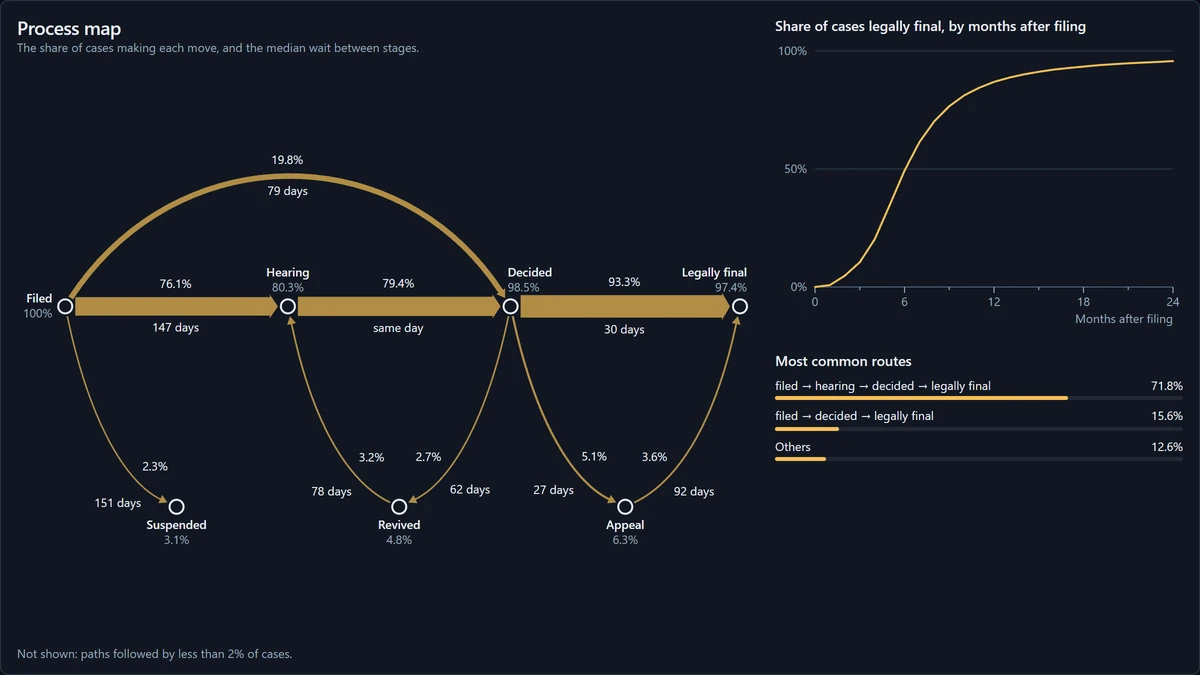
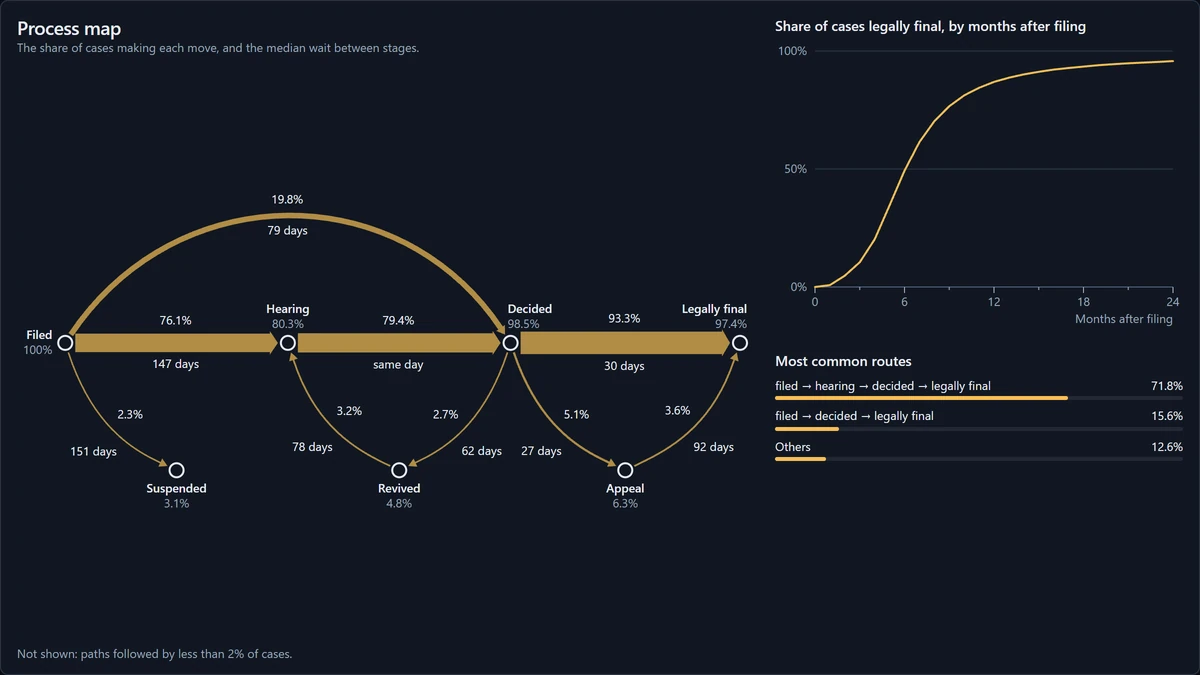
Process map: the arcs as far above the row as below it (v0.13.1)
One distance now sizes both the arc over the hearing and the arcs below:
the arc over the hearing's old rule, so it keeps its height and the arcs
below are shallower. The arrow's middle makes up for its ends being cut
back at its stages. The stills are reshot.

Changed region(s): [[0.0, 0.2178, 0.6475, 0.8089], [0.3083, 0.28, 0.3392, 0.3111]]

diff --git a/demo/src/views/map.js b/demo/src/views/map.js
@@ -131,10 +131,10 @@ export function createMap(host, data) {
     const stroke = (share) => 1 + (widest - 1) * share;
     const overWidth = stroke(drawn.find((move) => shape(move.from, move.to) === 'over')?.share ?? 0);
 
-    // The rows. The arc over the hearing rises about a fifth of its span, up to 1.3 times that, and the
-    // arcs below dip half of theirs, up to 1.8 times that, as far as the height allows, and the drawing
-    // is centred in it; on a narrow map, up to 2 and 3 times, to make room for the labels. The arc over
-    // the hearing always clears the hearing's label, and the arcs below leave room for theirs.
+    // The rows. The arcs below dip as far under the top row as the arc over the hearing rises above it:
+    // about a fifth of its span, up to 1.3 times that, as far as the height allows, and the drawing is
+    // centred in it; on a narrow map, up to twice that, to make room for the labels. The arc over the
+    // hearing always clears the hearing's label, and the arcs below leave room for theirs.
     const pad = {
       left: Math.max(measure('Filed', true), measure(shareText('filed') ?? '')) + NODE + 12,
       right: NODE + 4,
@@ -143,12 +143,10 @@ export function createMap(host, data) {
     };
     const inner = width - pad.left - pad.right;
     const room = height - pad.top - pad.bottom;
-    const least = { lift: NODE + 2 * LINE + 12 + overWidth / 2, depth: 2 * NODE + 2 * LINE + 4 };
-    const want = { lift: 0.22 * (PLACES.decided[0] - PLACES.filed[0]) * inner, depth: 0.5 * (PLACES.decided[0] - PLACES.hearing[0]) * inner };
-    const most = inner < 400 ? { lift: 2, depth: 3 } : { lift: 1.3, depth: 1.8 };
-    const lift = Math.max(least.lift, want.lift * Math.min(most.lift, room / (want.lift + want.depth)));
-    const depth = Math.max(least.depth, Math.min(want.depth * most.depth, room - lift));
-    const top = pad.top + Math.max(0, (room - lift - depth) / 2) + lift;
+    const least = Math.max(NODE + 2 * LINE + 12 + overWidth / 2, 2 * NODE + 2 * LINE + 4);
+    const want = 0.22 * (PLACES.decided[0] - PLACES.filed[0]) * inner;
+    const depth = Math.max(least, want * Math.min(inner < 400 ? 2 : 1.3, room / (2 * want)));
+    const top = pad.top + Math.max(0, room / 2 - depth) + depth;
     const at = (stage) => [pad.left + PLACES[stage][0] * inner, top + PLACES[stage][1] * depth];
 
     // What labels must keep clear of: the stages and their labels, the arrows, and the other labels.
@@ -189,7 +187,7 @@ export function createMap(host, data) {
     const arrows = drawn.map((move, id) => {
       const w = stroke(move.share);
       const twin = drawn.findIndex((other) => other.from === move.to && other.to === move.from);
-      const points = route(move.from, move.to, at, { lift });
+      const points = route(move.from, move.to, at);
       return { id, move, w, twin: twin < 0 ? null : twin, geometry: arrow(points, w, twin < 0 ? 0 : head(w) + 1.5) };
     });
     const marks = arrows.flatMap(({ id, w, geometry }) => geometry.samples.map(([x, y]) => [x, y, w / 2 + 2, id]));
@@ -366,16 +364,22 @@ const mix = ([ax, ay], [bx, by], t) => [ax + (bx - ax) * t, ay + (by - ay) * t];
 
 /**
  * The curve a move follows on the map, between its stages' centres (`at(stage)`), as a cubic Bézier's
- * four points: straight for a line; for the arc over the hearing, rising `lift` px at its middle; or
- * along the arc below the row whose bottom is a suspension, a revival or an appeal, leaving the row
- * steeply and reaching the bottom at a slope of TILT, so that a line along the bottom row stays clear.
+ * four points: straight for a line; for the arc over the hearing, its arrow's middle rising as far above
+ * the top row as the bottom row is below it; or along the arc below the row whose bottom is a
+ * suspension, a revival or an appeal, leaving the row steeply and reaching the bottom at a slope of TILT,
+ * so that a line along the bottom row stays clear.
  */
-export function route(from, to, at, { lift }) {
+export function route(from, to, at) {
   const [p, q] = [at(from), at(to)];
   const kind = shape(from, to);
   if (kind === 'line') return [p, mix(p, q, 1 / 3), mix(p, q, 2 / 3), q];
   if (kind === 'over') {
-    const rise = lift / 0.75; // a cubic's middle reaches 3/4 of the way to its control points
+    // A cubic's middle is 3/8 of each control point and 1/8 of each end, and the arrow's ends are cut
+    // back GAP and GAP + ARROW px along its slope (see arrow), which lifts its middle; so the control
+    // points rise that much less.
+    const depth = at('suspended')[1] - p[1];
+    let rise = depth / 0.75;
+    for (let i = 0; i < 5; i++) rise = (8 * depth - ((2 * GAP + ARROW) * rise) / Math.hypot((q[0] - p[0]) / 4, rise)) / 6;
     return [p, [p[0] + (q[0] - p[0]) / 4, p[1] - rise], [q[0] - (q[0] - p[0]) / 4, q[1] - rise], q];
   }
   // From the row down to the bottom of the arc, then the other way if the move goes up.

diff --git a/demo/test/journey.test.js b/demo/test/journey.test.js
@@ -106,7 +106,6 @@ test('the share legally final, month by month', () => {
 
 // Stages on a map 300 wide, with the top row at y = 100 and the bottom row 60 below it.
 const at = (stage) => [PLACES[stage][0] * 300, 100 + PLACES[stage][1] * 60];
-const sizes = { lift: 50, depth: 60 };
 const near = (a, b) => Math.abs(a[0] - b[0]) < 1e-9 && Math.abs(a[1] - b[1]) < 1e-9;
 
 test('the arcs below the row pass through suspensions, revivals and appeals', () => {
@@ -114,8 +113,8 @@ test('the arcs below the row pass through suspensions, revivals and appeals', ()
   assert.deepEqual(Object.keys(ARCS).sort(), ['appeal', 'revived', 'suspended']);
   for (const [bottom, [left, right]] of Object.entries(ARCS)) {
     assert.ok(Math.abs(at(bottom)[0] - (at(left)[0] + at(right)[0]) / 2) < 1e-9, bottom);
-    const down = curve(left, bottom, at, sizes);
-    const up = curve(bottom, right, at, sizes);
+    const down = curve(left, bottom, at);
+    const up = curve(bottom, right, at);
     assert.ok(near(down[0], at(left)) && near(down[3], at(bottom)), `${left} to ${bottom}`);
     assert.ok(near(up[0], at(bottom)) && near(up[3], at(right)), `${bottom} to ${right}`);
     // Mirror images, each reaching the bottom from above at the same slope, so a line along the bottom
@@ -123,15 +122,15 @@ test('the arcs below the row pass through suspensions, revivals and appeals', ()
     const slope = (a, b) => (b[1] - a[1]) / (b[0] - a[0]);
     assert.ok(slope(down[2], down[3]) > 0.3 && Math.abs(slope(down[2], down[3]) + slope(up[0], up[1])) < 1e-9);
     // A move back up the same half is the same curve the other way.
-    assert.deepEqual(curve(bottom, left, at, sizes), [...down].reverse());
+    assert.deepEqual(curve(bottom, left, at), [...down].reverse());
   }
-  // The arc over the hearing rises its lift at its middle.
-  const [p0, p1, p2, p3] = curve('filed', 'decided', at, sizes);
-  assert.ok(Math.abs((p0[1] + 3 * p1[1] + 3 * p2[1] + p3[1]) / 8 - (100 - 50)) < 1e-9);
+  // The arc over the hearing's arrow rises as far above the row at its middle as the arcs below dip
+  // under it, whatever its width.
+  for (const width of [1, 24]) assert.ok(Math.abs(arrow(curve('filed', 'decided', at), width).at(0.5)[1] - (100 - 60)) < 1e-6);
 });
 
 test('arrows start and end clear of their stages, and a move and its reverse sit side by side', () => {
-  const straight = curve('filed', 'hearing', at, sizes);
+  const straight = curve('filed', 'hearing', at);
   const ahead = arrow(straight, 4, 6);
   const back = arrow([...straight].reverse(), 4, 6);
   assert.ok(ahead.at(0.5)[1] < 100 && back.at(0.5)[1] > 100, 'each to the left of its travel');
@@ -142,7 +141,7 @@ test('arrows start and end clear of their stages, and a move and its reverse sit
   const [, tx] = plain.head.match(/^M([-\d.]+),([-\d.]+)/).map(Number);
   assert.equal(tx, at('hearing')[0] - 10);
   // A curve's ends point along it: the drop to a revival leaves the decision downwards.
-  const dip = arrow(curve('decided', 'revived', at, sizes), 4);
+  const dip = arrow(curve('decided', 'revived', at), 4);
   const [x0, y0] = dip.at(0);
   assert.ok(y0 > 100 && Math.hypot(x0 - at('decided')[0], y0 - 100) > 9.9);
 });

diff --git a/docs/plan.md b/docs/plan.md
@@ -952,6 +952,14 @@ Added with Mark on 2026-11-25, after the first four PRs: weighting recent traini
     - **What the simpler methods are** stays in the rail, under "Calibration within": "The simpler methods", each name with a line or two (`controls.notes`), shortened so the rail (557 px) fits beside the 560 px stage. At 1366 × 650 it runs below the stage, as the Forecast tab's controls do.
   - **Tests:** 4 new node:test tests, 45 in all: the four methods on the ranking, each described, at every landmark; every method's calibration bands and their mean gap (which matches the export's to 0.0005); the names at the lines' ends coming apart; and the counts and the status line.
   - **Checked in Edge,** with the built bundle, in both themes at 1280 × 800, 1100 × 520 and 390 px, and on the site's preview at 1920 × 960, 1440 × 900 and 1366 × 650: all three tabs, both hovers, each horizon and several methods, and switching between the tabs. No console errors, and nothing overlaps. The bundle is 844 KB.
+- [x] The Process map's arcs, as far above the row as below it (v0.13.1).
+  - **Asked for by Mark on 2026-11-26:** the arcs above and below the row were asymmetric. The distance from the row to the top of the arc over the hearing should be the distance to the bottom of the arcs below.
+  - **Before:** the arc over the hearing rose 89 px and the arcs below dipped 135 px on the standalone demo's map (513 × 458), 119 and 198 at 1100 × 520, and 83 and 135 at 390 px. They were sized apart, and the arcs below took the rest of the height.
+  - **Now one distance sizes both,** measured on centre lines: from the row to the arc's line at its middle, and from the row to the stages at the arcs' bottoms. It's the arc over the hearing's old rule (about a fifth of its span, up to 1.3 times that, or twice on a narrow map, as far as the height allows), so that arc keeps its height and the arcs below are shallower: 86 px each on the standalone map, 116 at 1100 × 520 and 79 at 390 px. `map.route` takes the distance from the stages' places, and makes up for the arrow's ends being cut back at its stages, which lifted its middle about 3 px.
+  - **What it costs:** the flatter arcs below leave less room beside them. Nationally at the standalone map's size, filed → suspended's numbers now wait for a hover (5 arrows, 4 before), and at Prague 2, 7 arrows (5 before). On a phone, hovering filed → suspended shows its share alone, since "151 days" no longer fits across from it under "Filed 100%". It comes back with a distance of 2.4 times the fifth on narrow maps, but the arc over the hearing would then rise more than half its span.
+  - **The stills** are reshot: `static.webp` and `static-light.webp` show the map. The Forecast tab's (`thumb.webp`, `thumb-light.webp` and `og.jpg`) had been left from before the forecast's y axis title moved in v0.13.0's third round, so they change too.
+  - **Tests:** the route test checks that the arc over the hearing's arrow rises as far as the bottom row lies below, for a hairline and the widest arrow. 45 in all.
+  - **Checked in Edge,** with the built bundle, at 1920 × 960, 1440 × 900, 1366 × 650, 1100 × 520 and 390 × 844, for all courts and Prague 2: the distances match to 0.1 px, and there are no console errors. Hovering each arrow at 1440 × 900 (all courts and Prague 2) and 390 px shows its numbers, but for the phone's filed → suspended above. The bundle is 832 KB.
 
 
 ### 9. Write-up: release status `live`
